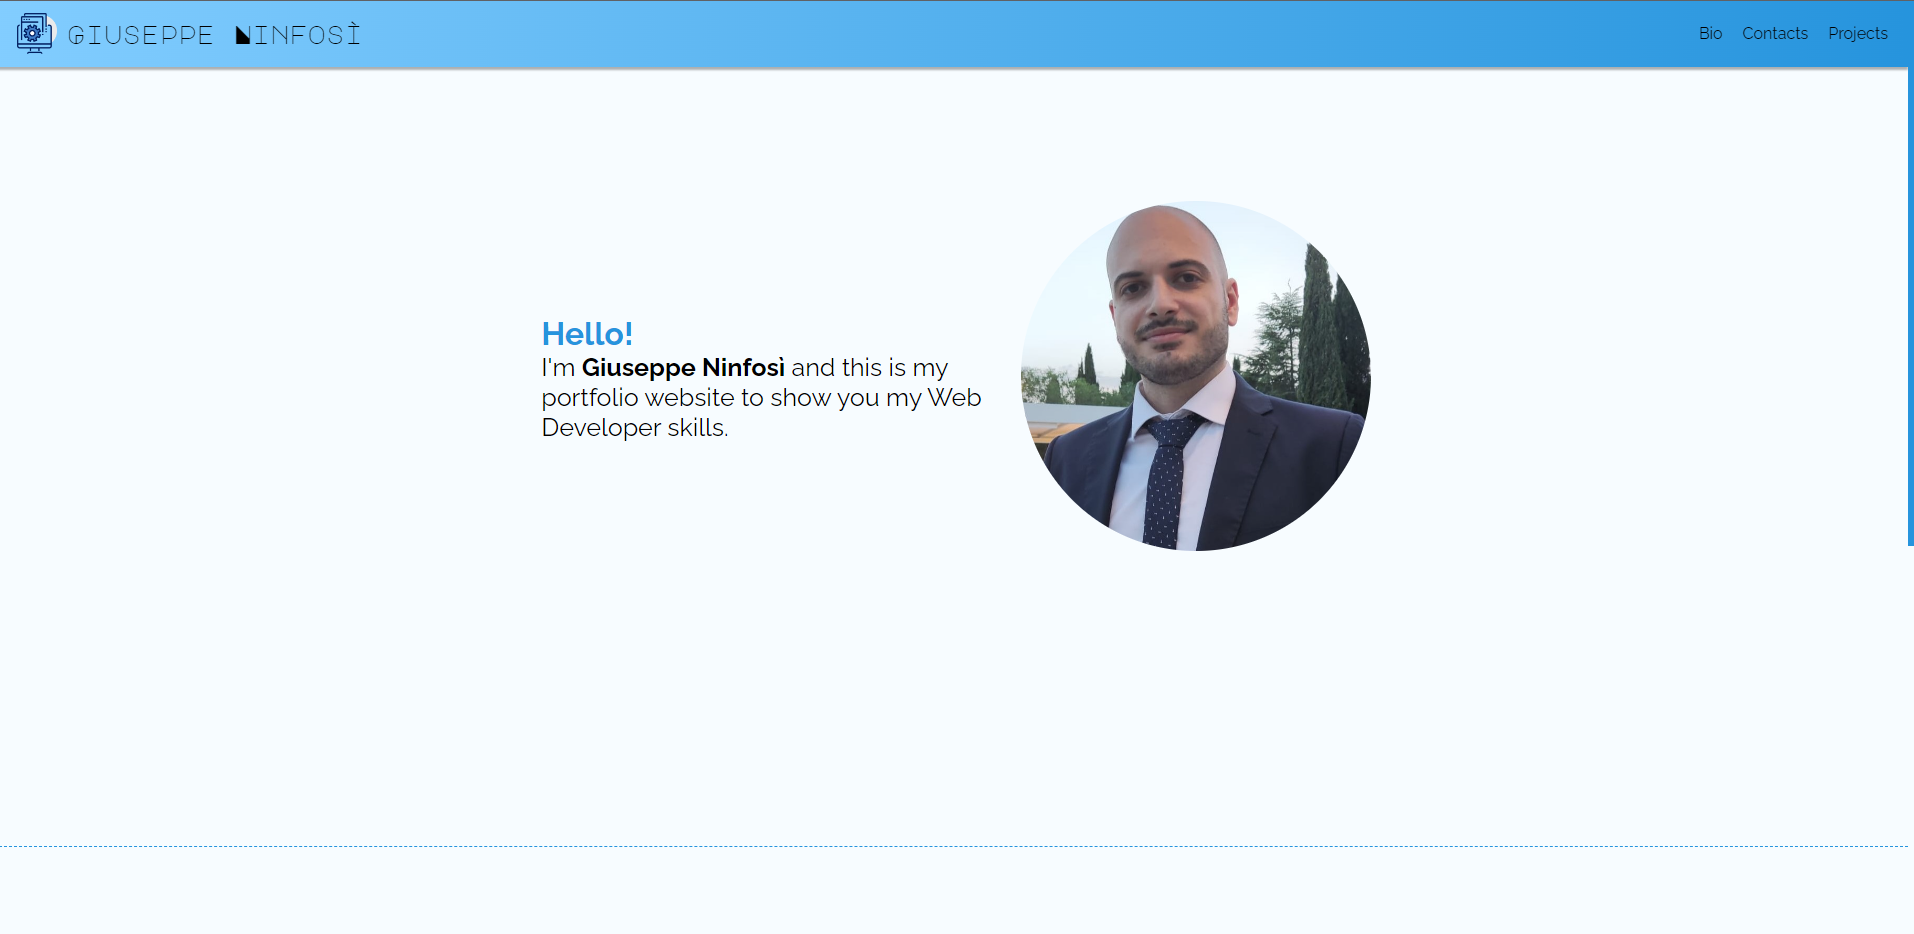
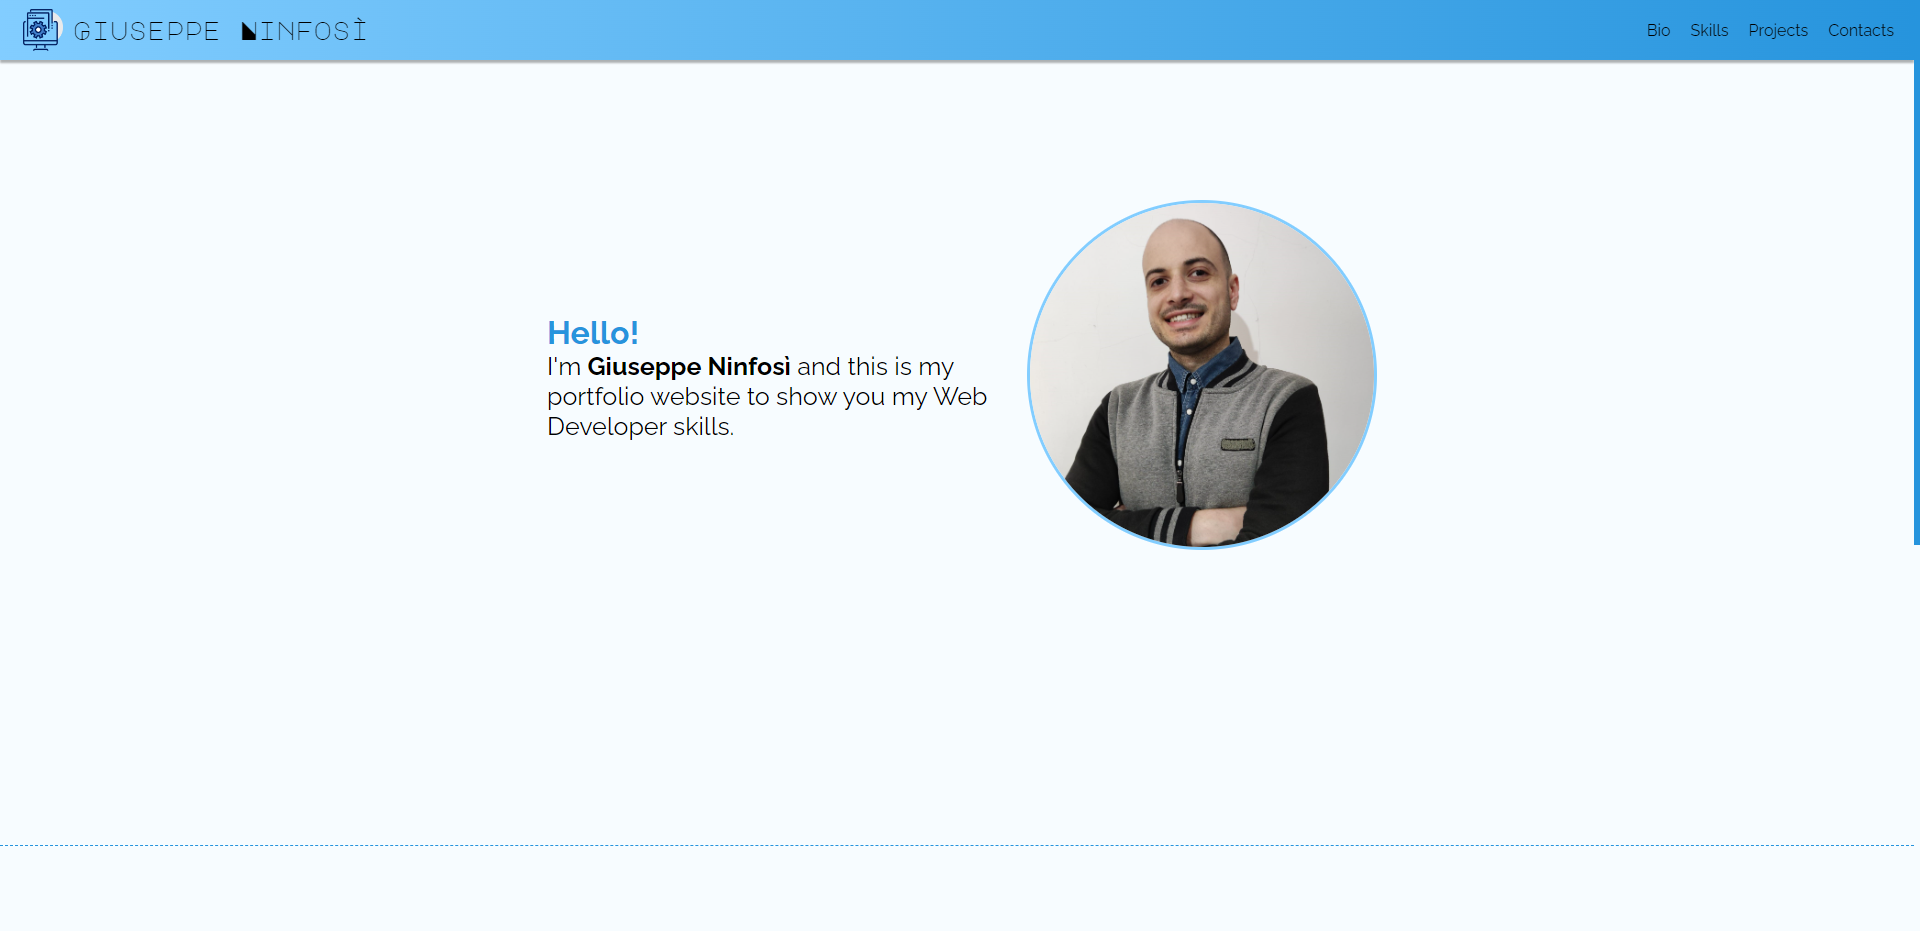
version definitive

Changed region(s): [[0.2774, 0.218, 0.7398, 0.5918], [0.0, 0.0, 1.0, 0.0934]]

diff --git a/index.html b/index.html
@@ -18,7 +18,7 @@
     <header>
         <nav class="navbar">
             
-            <a class="home" href="/">
+            <a class="home" href="index.html">
                 <div class="name">
                     <img class="logo" src="assets/images/logo.png" alt="logo">Giuseppe Ninfosì
                 </div>
@@ -58,8 +58,8 @@
         <div id="bio">
             <h2>Bio</h2>
             <p>I've been always interested in tech stuff. Since I was little, I was curious of seeing what there was underneath the web-pages and softwares. I used to modify the apps code to make them work on my old phone or PC. This was just an hobby.<br>
-                 I attended university and graduated in Law, but I felt that something wasn't right.<br>
-                So I decided to go back to my roots and start a course at <a href="https://www.start2impact.it/" target="_blank">Start2impact University</a> to become a <strong>Full Stack Developer</strong>.
+                 I attended university and graduated in Law.<br>
+                But now I've decided to go back to my roots and start a course at <a href="https://www.start2impact.it/" target="_blank">Start2impact University</a> to become a <strong>Full Stack Developer</strong>.
             </p>
             
         </div>

diff --git a/projects.html b/projects.html
@@ -13,13 +13,13 @@
     <header>
         <nav class="navbar">
             
-            <a class="home" href="/">
+            <a class="home" href="index.html">
                 <div class="name">
                     <img class="logo" src="assets/images/logo.png" alt="logo">Giuseppe Ninfosì
                 </div>
             </a>
             
-            <input id="menu-toggle" type="checkbox" />   <!--aggiungere btn modalità scura a piè pag-->
+            <input id="menu-toggle" type="checkbox" />   
             <label class='menu-button-container' for="menu-toggle">
              <div class='menu-button'>&#9776</div>
              

diff --git a/css/style.css b/css/style.css
@@ -31,7 +31,7 @@ h2 {
   position: fixed;
   background-image: linear-gradient(to left, rgb(38, 148, 221), rgb(130, 205, 255));
   align-items: center;
-  height: 7%;
+  height: 60px;
   width: 100%;
   top: 0;
   box-shadow: 0 3px 2px rgba(0, 0, 0, 0.3);
@@ -100,6 +100,7 @@ main .container p {
 main .container .pro-pic {
   max-height: 350px;
   border-radius: 50%;
+  border: solid 3px rgb(130, 205, 255);
 }
 main .container .text {
   max-width: 450px;

diff --git a/sass/_navbar.scss b/sass/_navbar.scss
@@ -4,7 +4,7 @@
     position: fixed;
     background-image: linear-gradient(to left, $primary-color, $secondary-color);
     align-items: center;
-    height: 7%;
+    height: 60px;
     width: 100%;
     top:0;
     box-shadow:   0 3px 2px rgba(0, 0, 0, .3);

diff --git a/sass/style.scss b/sass/style.scss
@@ -16,7 +16,7 @@ $font:Raleway;
 
 body {
     background-color: lighten($secondary-color,23%)
-   //background-image:linear-gradient(to bottom, lighten($secondary-color, 20%), $primary-color);
+   
 }
 
 ::-webkit-scrollbar {

diff --git a/sass/_index.scss b/sass/_index.scss
@@ -25,7 +25,8 @@ main {
         .pro-pic {
             max-height: 350px;
             border-radius: 50%;
-           
+            border: solid 3px $secondary-color;
+            
         }
 
         .text {
